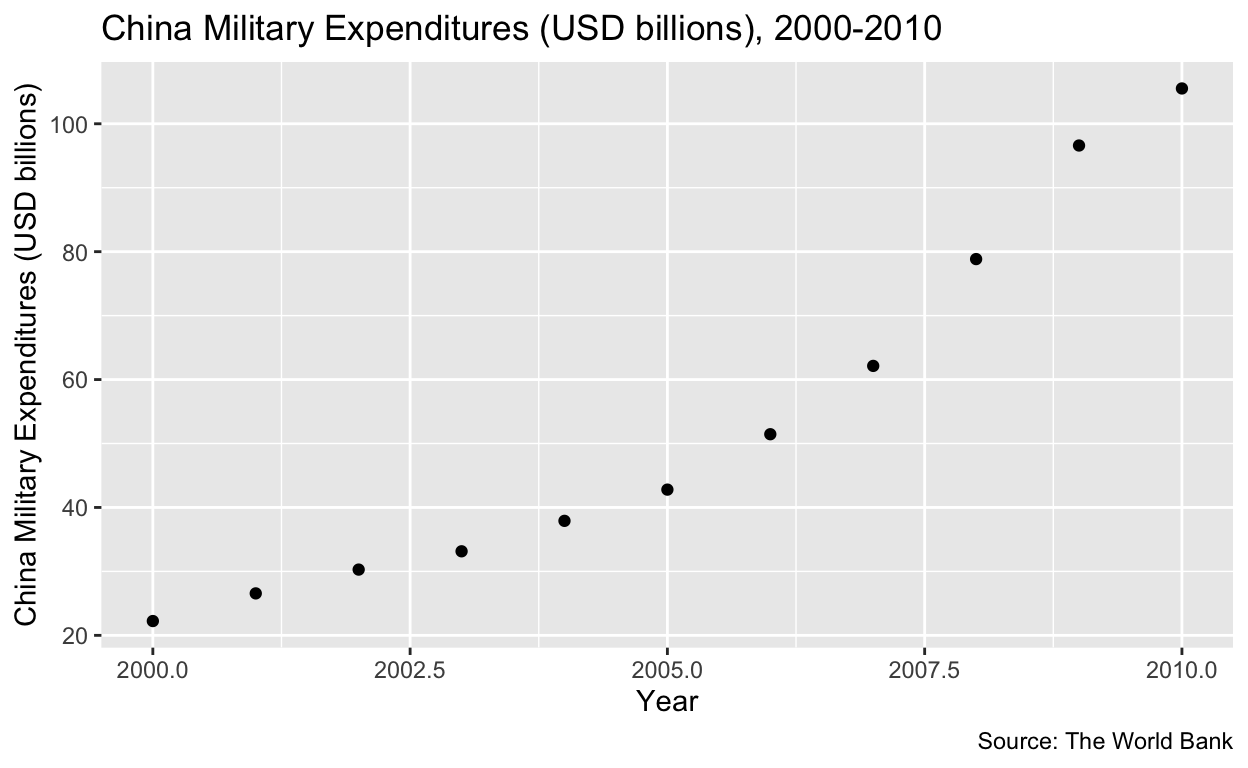
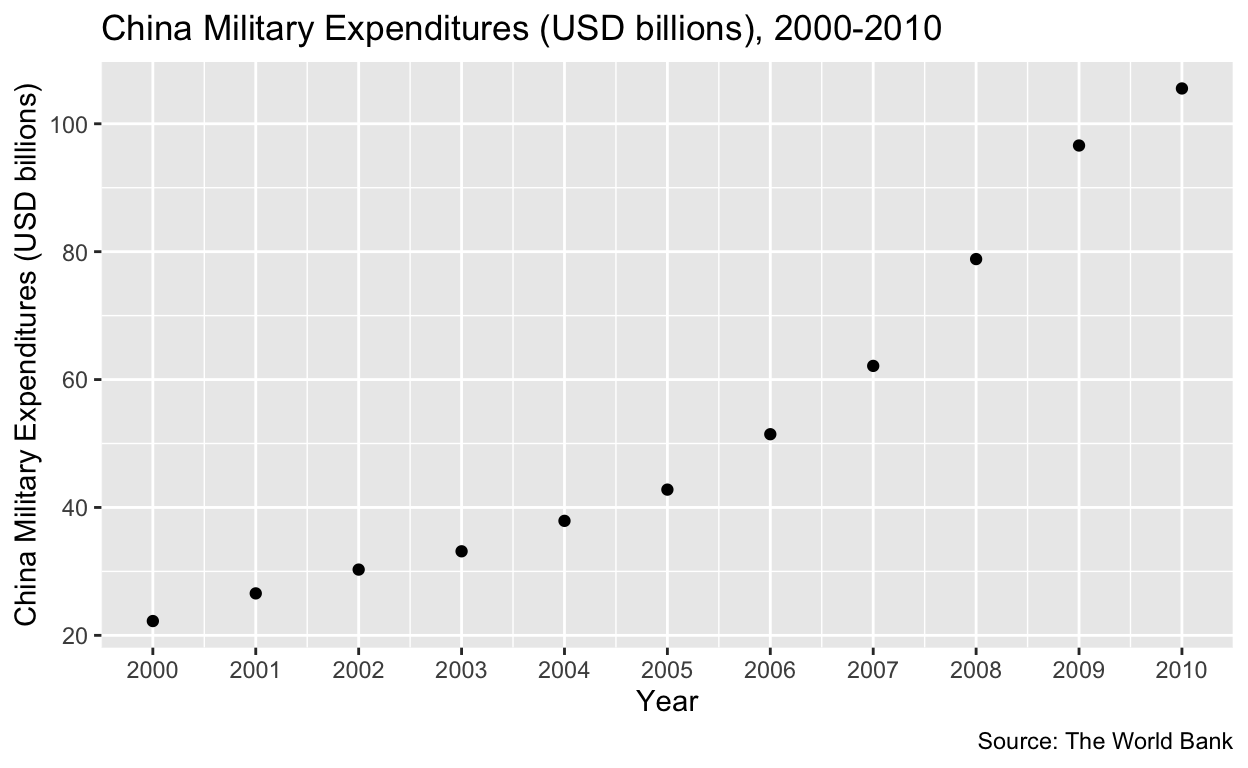
hehe

diff --git a/index.html b/index.html
@@ -115,7 +115,7 @@ code span.wa { color: #5e5e5e; font-style: italic; } /* Warning */
   <!--/radix_placeholder_rmarkdown_metadata-->
   
   <script type="text/json" id="radix-resource-manifest">
-  {"type":"character","attributes":{},"value":["index_files/anchor-4.2.2/anchor.min.js","index_files/bowser-1.9.3/bowser.min.js","index_files/distill-2.2.21/template.v2.js","index_files/figure-html5/unnamed-chunk-1-1.png","index_files/header-attrs-2.17/header-attrs.js","index_files/header-attrs-2.24/header-attrs.js","index_files/jquery-3.6.0/jquery-3.6.0.js","index_files/jquery-3.6.0/jquery-3.6.0.min.js","index_files/jquery-3.6.0/jquery-3.6.0.min.map","index_files/popper-2.6.0/popper.min.js","index_files/tippy-6.2.7/tippy-bundle.umd.min.js","index_files/tippy-6.2.7/tippy-light-border.css","index_files/tippy-6.2.7/tippy.css","index_files/tippy-6.2.7/tippy.umd.min.js","index_files/webcomponents-2.0.0/webcomponents.js","usa_00001.xml","usa_00002.xml"]}
+  {"type":"character","attributes":{},"value":["index_files/anchor-4.2.2/anchor.min.js","index_files/bowser-1.9.3/bowser.min.js","index_files/distill-2.2.21/template.v2.js","index_files/figure-html5/unnamed-chunk-1-1.png","index_files/figure-html5/unnamed-chunk-1-2.png","index_files/header-attrs-2.17/header-attrs.js","index_files/header-attrs-2.24/header-attrs.js","index_files/jquery-3.6.0/jquery-3.6.0.js","index_files/jquery-3.6.0/jquery-3.6.0.min.js","index_files/jquery-3.6.0/jquery-3.6.0.min.map","index_files/popper-2.6.0/popper.min.js","index_files/tippy-6.2.7/tippy-bundle.umd.min.js","index_files/tippy-6.2.7/tippy-light-border.css","index_files/tippy-6.2.7/tippy.css","index_files/tippy-6.2.7/tippy.umd.min.js","index_files/webcomponents-2.0.0/webcomponents.js","militarydata.xls"]}
   </script>
   <!--radix_placeholder_navigation_in_header-->
   <!--/radix_placeholder_navigation_in_header-->
@@ -1526,20 +1526,83 @@ code span.wa { color: #5e5e5e; font-style: italic; } /* Warning */
 <div class="layout-chunk" data-layout="l-body">
 <div class="sourceCode">
 <pre class="sourceCode r"><code class="sourceCode r"><span><span class='kw'><a href='https://rdrr.io/r/base/library.html'>library</a></span><span class='op'>(</span><span class='va'><a href='https://tidyverse.tidyverse.org'>tidyverse</a></span><span class='op'>)</span></span>
-<span><span class='co'># Data from https://www.eia.gov/dnav/pet/hist/LeafHandler.ashx?n=PET&amp;s=MTTEXCH1&amp;f=M</span></span>
-<span><span class='va'>data</span> <span class='op'>&lt;-</span> <span class='fu'><a href='https://rdrr.io/r/base/data.frame.html'>data.frame</a></span><span class='op'>(</span>Year <span class='op'>=</span> <span class='fu'><a href='https://rdrr.io/r/base/c.html'>c</a></span><span class='op'>(</span><span class='fl'>2000</span>, <span class='fl'>2001</span>, <span class='fl'>2002</span>, <span class='fl'>2003</span>, <span class='fl'>2004</span>, <span class='fl'>2005</span>, <span class='fl'>2006</span>, <span class='fl'>2007</span>, <span class='fl'>2008</span>, <span class='fl'>2009</span>, <span class='fl'>2010</span><span class='op'>)</span>,</span>
-<span>                   Oil_Exports <span class='op'>=</span> <span class='fu'><a href='https://rdrr.io/r/base/c.html'>c</a></span><span class='op'>(</span><span class='fl'>10</span>, <span class='fl'>6</span>, <span class='fl'>628</span>, <span class='fl'>25</span>, <span class='fl'>322</span>, <span class='fl'>21</span>, <span class='fl'>219</span>, <span class='fl'>37</span>, <span class='fl'>118</span>, <span class='fl'>1111</span>, <span class='fl'>1652</span><span class='op'>)</span><span class='op'>)</span></span>
+<span><span class='kw'><a href='https://rdrr.io/r/base/library.html'>library</a></span><span class='op'>(</span><span class='va'><a href='https://readxl.tidyverse.org'>readxl</a></span><span class='op'>)</span></span>
+<span><span class='kw'><a href='https://rdrr.io/r/base/library.html'>library</a></span><span class='op'>(</span><span class='va'><a href='https://dplyr.tidyverse.org'>dplyr</a></span><span class='op'>)</span></span>
+<span> </span>
+<span><span class='co'># Data from  U.S. Energy Information Administration: https://www.eia.gov/dnav/pet/hist/LeafHandler.ashx?n=PET&amp;s=MTTEXCH1&amp;f=M</span></span>
+<span><span class='va'>data_oil</span> <span class='op'>&lt;-</span> <span class='fu'><a href='https://rdrr.io/r/base/data.frame.html'>data.frame</a></span><span class='op'>(</span>Year <span class='op'>=</span> <span class='fu'><a href='https://rdrr.io/r/base/c.html'>c</a></span><span class='op'>(</span><span class='fl'>2000</span>, <span class='fl'>2001</span>, <span class='fl'>2002</span>, <span class='fl'>2003</span>, <span class='fl'>2004</span>, <span class='fl'>2005</span>, <span class='fl'>2006</span>, <span class='fl'>2007</span>, <span class='fl'>2008</span>, <span class='fl'>2009</span>, <span class='fl'>2010</span><span class='op'>)</span>,</span>
+<span>                   oil_import <span class='op'>=</span> <span class='fu'><a href='https://rdrr.io/r/base/c.html'>c</a></span><span class='op'>(</span><span class='fl'>1105</span>, <span class='fl'>2044</span>, <span class='fl'>5280</span>, <span class='fl'>8915</span>, <span class='fl'>4917</span>, <span class='fl'>4407</span> , <span class='fl'>3986</span> , <span class='fl'>4970</span> , <span class='fl'>4875</span>, <span class='fl'>15954</span>, <span class='fl'>18894</span><span class='op'>)</span><span class='op'>)</span></span>
 <span><span class='va'>plot</span> <span class='op'>&lt;-</span> </span>
-<span>  <span class='fu'><a href='https://ggplot2.tidyverse.org/reference/ggplot.html'>ggplot</a></span><span class='op'>(</span>data <span class='op'>=</span> <span class='va'>data</span>,</span>
+<span>  <span class='fu'><a href='https://ggplot2.tidyverse.org/reference/ggplot.html'>ggplot</a></span><span class='op'>(</span>data <span class='op'>=</span> <span class='va'>data_oil</span>,</span>
 <span>                    mapping <span class='op'>=</span> <span class='fu'><a href='https://ggplot2.tidyverse.org/reference/aes.html'>aes</a></span><span class='op'>(</span>x <span class='op'>=</span> <span class='va'>Year</span>,</span>
-<span>                                  y <span class='op'>=</span> <span class='va'>Oil_Exports</span><span class='op'>)</span><span class='op'>)</span> <span class='op'>+</span></span>
+<span>                                  y <span class='op'>=</span> <span class='va'>oil_import</span><span class='op'>)</span><span class='op'>)</span> <span class='op'>+</span></span>
 <span>  <span class='fu'><a href='https://ggplot2.tidyverse.org/reference/geom_point.html'>geom_point</a></span><span class='op'>(</span><span class='op'>)</span> <span class='op'>+</span> <span class='fu'><a href='https://ggplot2.tidyverse.org/reference/labs.html'>labs</a></span><span class='op'>(</span>x <span class='op'>=</span> <span class='st'>"Year"</span>,</span>
-<span>                        y <span class='op'>=</span> <span class='st'>"U.S. Crude Oil Exports to China (in thousands of barrels)"</span>,</span>
-<span>                      title <span class='op'>=</span> <span class='st'>"U.S. Crude Oil Exports to China (in thousands of barrels), 2000-2010"</span>, caption <span class='op'>=</span> <span class='st'>"Source: U.S. Energy Information Administration"</span><span class='op'>)</span> <span class='op'>+</span></span>
+<span>                        y <span class='op'>=</span> <span class='st'>"Oil Imports from United States (in thousand barrels)"</span>,</span>
+<span>                      title <span class='op'>=</span> <span class='st'>"Oil Imports in China from United States (in thousand barrels), 2000-2010"</span>, caption <span class='op'>=</span> <span class='st'>"Source: U.S. Energy Information Administration"</span><span class='op'>)</span> <span class='op'>+</span></span>
 <span>  <span class='fu'><a href='https://ggplot2.tidyverse.org/reference/scale_continuous.html'>scale_x_continuous</a></span><span class='op'>(</span>breaks <span class='op'>=</span> <span class='fu'><a href='https://rdrr.io/r/base/c.html'>c</a></span><span class='op'>(</span><span class='fl'>2000</span>, <span class='fl'>2001</span>, <span class='fl'>2002</span>, <span class='fl'>2003</span>, <span class='fl'>2004</span>, <span class='fl'>2005</span>, <span class='fl'>2006</span>, <span class='fl'>2007</span>, <span class='fl'>2008</span>, <span class='fl'>2009</span>, <span class='fl'>2010</span><span class='op'>)</span><span class='op'>)</span></span>
 <span><span class='va'>plot</span></span></code></pre>
 </div>
-<p><img src="index_files/figure-html5/unnamed-chunk-1-1.png" width="624" /></p>
+<img src="index_files/figure-html5/unnamed-chunk-1-1.png" width="624" />
+<div class="sourceCode">
+<pre class="sourceCode r"><code class="sourceCode r"><span><span class='va'>data_military</span> <span class='op'>&lt;-</span> <span class='fu'><a href='https://readxl.tidyverse.org/reference/read_excel.html'>read_excel</a></span><span class='op'>(</span><span class='st'>"militarydata.xls"</span>, sheet <span class='op'>=</span> <span class='st'>"Data"</span><span class='op'>)</span></span>
+<span><span class='va'>data_military</span> <span class='op'>&lt;-</span> <span class='va'>data_military</span> <span class='op'>|&gt;</span></span>
+<span>  <span class='fu'><a href='https://dplyr.tidyverse.org/reference/filter.html'>filter</a></span><span class='op'>(</span><span class='va'>`Country Name`</span> <span class='op'>==</span> <span class='st'>"China"</span><span class='op'>)</span> <span class='op'>|&gt;</span></span>
+<span>  <span class='fu'><a href='https://rdrr.io/r/base/subset.html'>subset</a></span><span class='op'>(</span>select <span class='op'>=</span> <span class='op'>-</span><span class='fu'><a href='https://rdrr.io/r/base/c.html'>c</a></span><span class='op'>(</span><span class='va'>`Country Name`</span>, <span class='va'>`Country Code`</span>, <span class='va'>`Indicator Name`</span>, <span class='va'>`Indicator Code`</span><span class='op'>)</span><span class='op'>)</span></span>
+<span></span>
+<span><span class='va'>data_military</span> <span class='op'>&lt;-</span> <span class='va'>data_military</span> <span class='op'>|&gt;</span></span>
+<span>  <span class='fu'><a href='https://tidyr.tidyverse.org/reference/pivot_longer.html'>pivot_longer</a></span><span class='op'>(</span>cols<span class='op'>=</span> <span class='fu'><a href='https://tidyselect.r-lib.org/reference/everything.html'>everything</a></span><span class='op'>(</span><span class='op'>)</span><span class='op'>)</span> </span>
+<span>  </span>
+<span><span class='va'>data_military</span> <span class='op'>&lt;-</span> <span class='va'>data_military</span> <span class='op'>|&gt;</span></span>
+<span>  <span class='fu'><a href='https://dplyr.tidyverse.org/reference/filter.html'>filter</a></span><span class='op'>(</span><span class='va'>name</span> <span class='op'>&gt;=</span> <span class='fl'>2000</span> <span class='op'>&amp;</span> <span class='va'>name</span> <span class='op'>&lt;=</span> <span class='fl'>2010</span><span class='op'>)</span> <span class='op'>|&gt;</span></span>
+<span>  <span class='fu'><a href='https://dplyr.tidyverse.org/reference/mutate.html'>mutate</a></span><span class='op'>(</span>new_value <span class='op'>=</span> <span class='va'>value</span> <span class='op'>/</span> <span class='fl'>1000000000</span><span class='op'>)</span></span>
+<span></span>
+<span><span class='va'>data_military</span> <span class='op'>&lt;-</span> <span class='va'>data_military</span> <span class='op'>|&gt;</span></span>
+<span>  <span class='fu'><a href='https://dplyr.tidyverse.org/reference/rename.html'>rename</a></span><span class='op'>(</span><span class='st'>"Year"</span> <span class='op'>=</span> <span class='st'>"name"</span><span class='op'>)</span></span>
+<span>             </span>
+<span><span class='va'>data_military</span> <span class='op'>&lt;-</span> <span class='fu'><a href='https://rdrr.io/r/base/transform.html'>transform</a></span><span class='op'>(</span><span class='va'>data_military</span>, Year <span class='op'>=</span> <span class='fu'><a href='https://rdrr.io/r/base/numeric.html'>as.numeric</a></span><span class='op'>(</span><span class='va'>Year</span><span class='op'>)</span><span class='op'>)</span></span>
+<span></span>
+<span><span class='va'>data_military</span> <span class='op'>&lt;-</span> <span class='va'>data_military</span> <span class='op'>|&gt;</span></span>
+<span>  <span class='fu'><a href='https://dplyr.tidyverse.org/reference/mutate-joins.html'>left_join</a></span><span class='op'>(</span><span class='va'>data_oil</span>, by <span class='op'>=</span> <span class='st'>"Year"</span><span class='op'>)</span> <span class='op'>|&gt;</span></span>
+<span>    <span class='fu'><a href='https://rdrr.io/r/base/subset.html'>subset</a></span><span class='op'>(</span>select <span class='op'>=</span> <span class='op'>-</span><span class='fu'><a href='https://rdrr.io/r/base/c.html'>c</a></span><span class='op'>(</span><span class='va'>`value`</span><span class='op'>)</span><span class='op'>)</span></span>
+<span></span>
+<span><span class='va'>plot_2</span> <span class='op'>&lt;-</span> </span>
+<span>  <span class='fu'><a href='https://ggplot2.tidyverse.org/reference/ggplot.html'>ggplot</a></span><span class='op'>(</span>data <span class='op'>=</span> <span class='va'>data_military</span>,</span>
+<span>                    mapping <span class='op'>=</span> <span class='fu'><a href='https://ggplot2.tidyverse.org/reference/aes.html'>aes</a></span><span class='op'>(</span>x <span class='op'>=</span> <span class='va'>Year</span>,</span>
+<span>                                  y <span class='op'>=</span> <span class='va'>new_value</span><span class='op'>)</span><span class='op'>)</span> <span class='op'>+</span></span>
+<span>  <span class='fu'><a href='https://ggplot2.tidyverse.org/reference/geom_point.html'>geom_point</a></span><span class='op'>(</span><span class='op'>)</span> <span class='op'>+</span> <span class='fu'><a href='https://ggplot2.tidyverse.org/reference/labs.html'>labs</a></span><span class='op'>(</span>x <span class='op'>=</span> <span class='st'>"Year"</span>,</span>
+<span>                        y <span class='op'>=</span> <span class='st'>"China Military Expenditures (USD billions)"</span>,</span>
+<span>                      title <span class='op'>=</span> <span class='st'>"China Military Expenditures (USD billions), 2000-2010"</span>,</span>
+<span>                      caption <span class='op'>=</span> <span class='st'>"Source: The World Bank"</span><span class='op'>)</span> <span class='op'>+</span></span>
+<span>    <span class='fu'><a href='https://ggplot2.tidyverse.org/reference/scale_continuous.html'>scale_x_continuous</a></span><span class='op'>(</span>breaks <span class='op'>=</span> <span class='fu'><a href='https://rdrr.io/r/base/c.html'>c</a></span><span class='op'>(</span><span class='fl'>2000</span>, <span class='fl'>2001</span>, <span class='fl'>2002</span>, <span class='fl'>2003</span>, <span class='fl'>2004</span>, <span class='fl'>2005</span>, <span class='fl'>2006</span>, <span class='fl'>2007</span>, <span class='fl'>2008</span>, <span class='fl'>2009</span>, <span class='fl'>2010</span><span class='op'>)</span><span class='op'>)</span></span>
+<span><span class='va'>plot_2</span></span></code></pre>
+</div>
+<img src="index_files/figure-html5/unnamed-chunk-1-2.png" width="624" />
+<div class="sourceCode">
+<pre class="sourceCode r"><code class="sourceCode r"><span><span class='kw'><a href='https://rdrr.io/r/base/library.html'>library</a></span><span class='op'>(</span><span class='va'><a href='https://broom.tidymodels.org/'>broom</a></span><span class='op'>)</span></span>
+<span><span class='va'>fit_1</span> <span class='op'>&lt;-</span> <span class='fu'><a href='https://rdrr.io/r/stats/lm.html'>lm</a></span><span class='op'>(</span><span class='va'>new_value</span> <span class='op'>~</span> <span class='va'>oil_import</span>, data <span class='op'>=</span> <span class='va'>data_military</span><span class='op'>)</span></span>
+<span><span class='va'>fit_1</span> <span class='op'>|&gt;</span></span>
+<span>  <span class='fu'>broom</span><span class='fu'>::</span><span class='fu'><a href='https://generics.r-lib.org/reference/tidy.html'>tidy</a></span><span class='op'>(</span><span class='op'>)</span> <span class='op'>|&gt;</span></span>
+<span>  <span class='fu'><a href='https://dplyr.tidyverse.org/reference/select.html'>select</a></span><span class='op'>(</span><span class='va'>term</span>, <span class='va'>estimate</span><span class='op'>)</span> <span class='op'>|&gt;</span>  </span>
+<span>  <span class='fu'>knitr</span><span class='fu'>::</span><span class='fu'><a href='https://rdrr.io/pkg/knitr/man/kable.html'>kable</a></span><span class='op'>(</span><span class='op'>)</span></span></code></pre>
+</div>
+<table>
+<thead>
+<tr class="header">
+<th style="text-align: left;">term</th>
+<th style="text-align: right;">estimate</th>
+</tr>
+</thead>
+<tbody>
+<tr class="odd">
+<td style="text-align: left;">(Intercept)</td>
+<td style="text-align: right;">24.8407135</td>
+</tr>
+<tr class="even">
+<td style="text-align: left;">oil_import</td>
+<td style="text-align: right;">0.0041704</td>
+</tr>
+</tbody>
+</table>
 </div>
 <div class="sourceCode" id="cb1"><pre class="sourceCode r distill-force-highlighting-css"><code class="sourceCode r"></code></pre></div>
 <!--radix_placeholder_article_footer-->
